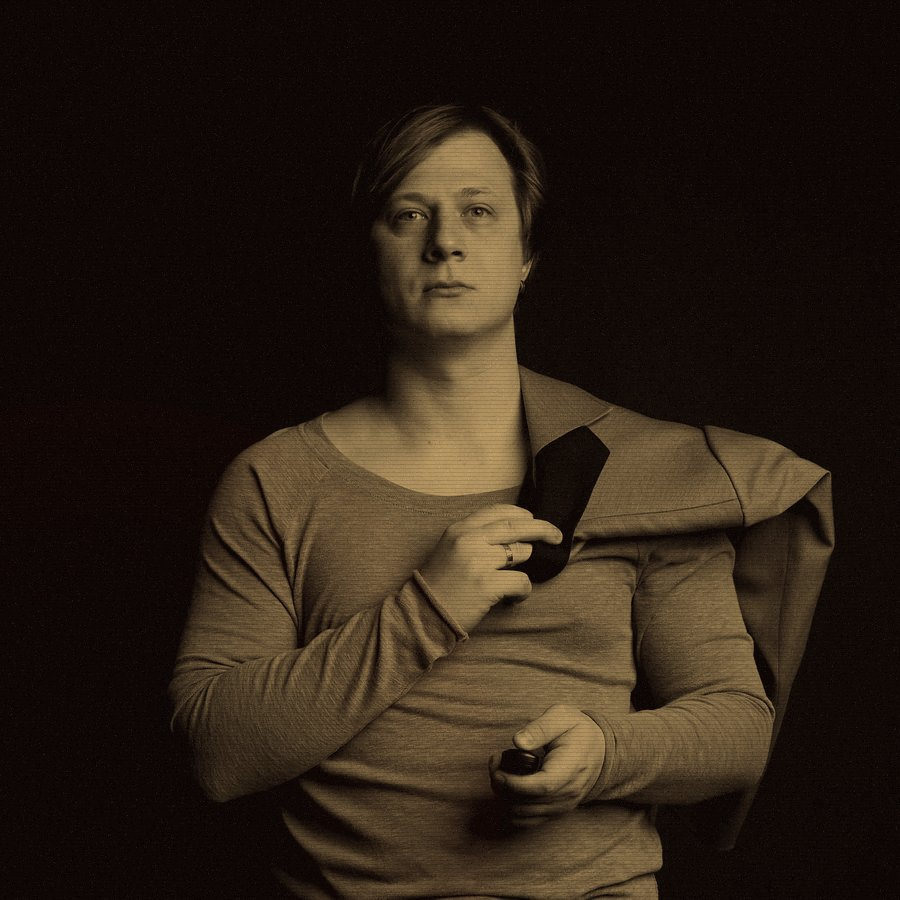
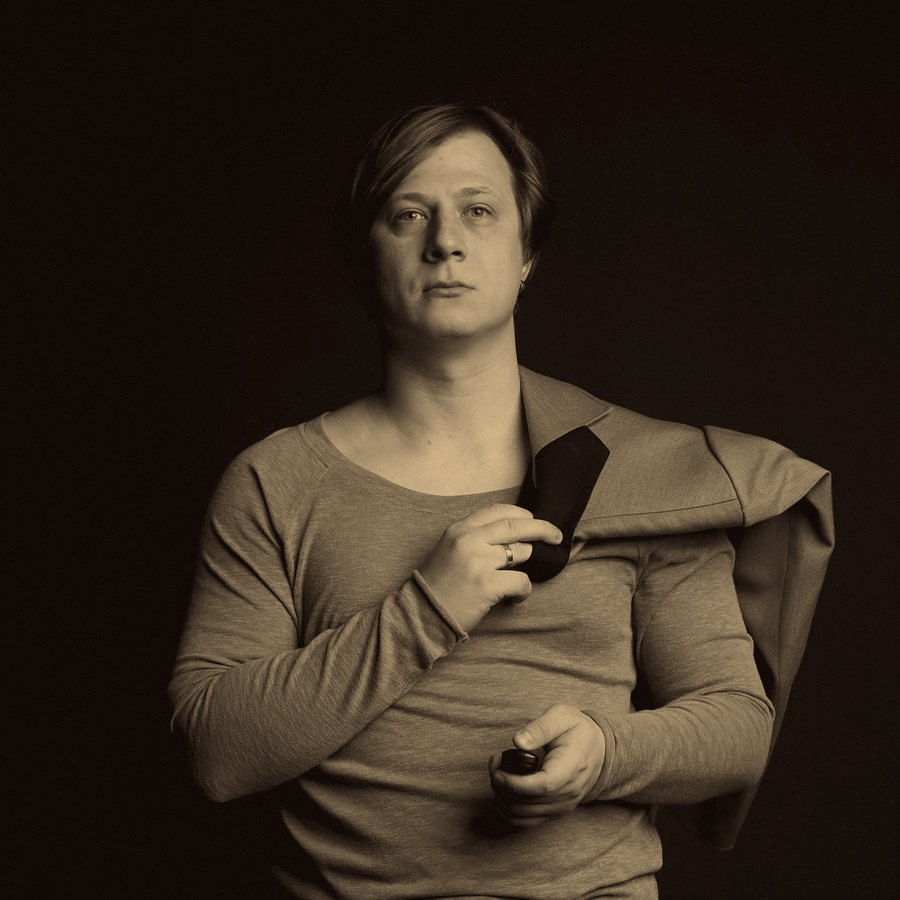
Rename version link, cross-link DMs badge, fix WH40k typography & portrait
- "the classical version" -> "classic view" on index nav/footer and
  the WH40k versions row
- "DMs open" hero badge is now an anchor linking to the #dms footer
  CTA section, with hover state
- WH40k portrait re-processed without the glow-blend and scanlines
  that caused visible distortion: clean bronze duotone, gentle edge
  vignette, light grain (generative re-edit needs GEMINI_API_KEY)
- WH40k typography overhaul: root font bumped to 18px / body 19px,
  all italics removed, UnifrakturMaguntia blackletter for h1, section
  rites, campaign names, and litany heading; illuminated-manuscript
  drop caps on the intro and campaign lore paragraphs

Changed region(s): [[0.2178, 0.1244, 0.8711, 1.0], [0.6533, 0.4667, 0.9333, 0.5911], [0.4044, 0.9022, 0.4356, 0.9333]]

diff --git a/wh40k.html b/wh40k.html
@@ -7,7 +7,7 @@
   <meta name="description" content="Sanctioned record of the Arch-Magos of Personalization, servant of the Omnissiah, bane of unsegmented offers.">
 
   <link rel="preconnect" href="https://fonts.googleapis.com">
-  <link href="https://fonts.googleapis.com/css2?family=Cinzel:wght@400;600;700&family=IM+Fell+English:ital@0;1&display=swap" rel="stylesheet">
+  <link href="https://fonts.googleapis.com/css2?family=Cinzel:wght@400;600;700&family=IM+Fell+English&family=UnifrakturMaguntia&display=swap" rel="stylesheet">
 
   <style>
     *, *::before, *::after { box-sizing: border-box; margin: 0; padding: 0; }
@@ -23,15 +23,28 @@
       --bone:    #e8dcc0;
     }
 
+    html { font-size: 18px; }
+
     body {
       background:
         radial-gradient(ellipse 80% 50% at 50% -10%, rgba(138,28,28,.25) 0%, transparent 60%),
         var(--void);
       color: var(--parch);
       font-family: 'IM Fell English', Georgia, serif;
-      font-size: 17px;
-      line-height: 1.6;
+      font-size: 19px;
+      line-height: 1.65;
       min-height: 100vh;
+    }
+
+    /* illuminated initial — medieval manuscript drop cap */
+    .illum::first-letter {
+      font-family: 'UnifrakturMaguntia', serif;
+      font-size: 3.1em;
+      line-height: .78;
+      float: left;
+      color: var(--gold);
+      padding: 4px 10px 0 0;
+      text-shadow: 0 0 18px rgba(201,162,39,.35);
     }
 
     ::selection { background: var(--crimson); color: var(--bone); }
@@ -159,17 +172,17 @@
     }
 
     .subject-id h1 {
-      font-family: 'Cinzel', serif;
-      font-weight: 700;
-      font-size: clamp(1.7rem, 5.5vw, 2.5rem);
-      line-height: 1.15;
+      font-family: 'UnifrakturMaguntia', 'Cinzel', serif;
+      font-weight: 400;
+      font-size: clamp(2rem, 6.5vw, 3rem);
+      line-height: 1.2;
       color: var(--bone);
-      letter-spacing: .02em;
+      letter-spacing: .01em;
       margin-bottom: 12px;
+      text-shadow: 0 0 24px rgba(201,162,39,.25);
     }
 
     .subject-id .titles {
-      font-style: italic;
       color: var(--parch);
       font-size: 1.02rem;
       line-height: 1.65;
@@ -228,14 +241,14 @@
 
     /* ── Section titles ── */
     h2.rite {
-      font-family: 'Cinzel', serif;
-      font-size: 1.05rem;
-      font-weight: 600;
-      letter-spacing: .18em;
-      text-transform: uppercase;
+      font-family: 'UnifrakturMaguntia', 'Cinzel', serif;
+      font-size: 1.7rem;
+      font-weight: 400;
+      letter-spacing: .02em;
       color: var(--gold);
       text-align: center;
       margin-bottom: 22px;
+      text-shadow: 0 0 18px rgba(201,162,39,.3);
     }
 
     /* ── Campaign records ── */
@@ -248,17 +261,18 @@
     }
 
     .campaign-head h3 {
-      font-family: 'Cinzel', serif;
-      font-size: 1.02rem;
-      font-weight: 600;
-      letter-spacing: .06em;
+      font-family: 'UnifrakturMaguntia', 'Cinzel', serif;
+      font-size: 1.45rem;
+      font-weight: 400;
+      letter-spacing: .02em;
       color: var(--bone);
+      line-height: 1.25;
     }
 
     .campaign-head .rank {
-      font-style: italic;
       color: var(--gold);
       font-size: .95rem;
+      margin-top: 2px;
     }
 
     .campaign-head .epoch {
@@ -271,7 +285,6 @@
     }
 
     .campaign > p.lore {
-      font-style: italic;
       color: var(--parch-dim);
       margin-bottom: 12px;
       font-size: .98rem;
@@ -323,10 +336,17 @@
     }
 
     .litany p {
-      font-style: italic;
       color: var(--parch);
       margin-bottom: 20px;
       font-size: .98rem;
+    }
+
+    .litany h3 {
+      font-family: 'UnifrakturMaguntia', 'Cinzel', serif;
+      font-size: 1.4rem;
+      letter-spacing: .03em;
+      text-transform: none;
+      font-weight: 400;
     }
 
     .litany a.astropath {
@@ -431,7 +451,7 @@
 
   <div class="versions">
     <a href="/">⟵ Return to realspace</a>
-    <a href="cv.html">The classical version</a>
+    <a href="cv.html">Classic view</a>
   </div>
 
   <div class="dossier">
@@ -460,7 +480,7 @@
 
     <div class="divider"><span class="glyph">☠ ⚙ ☠</span></div>
 
-    <p style="font-style:italic; text-align:center; max-width:580px; margin:0 auto 8px;">
+    <p class="illum" style="max-width:600px; margin:0 auto 8px;">
       For nine Terran years the subject has marched at the intersection of the Machine Cult, growth strategy, and commercial accountability — transmuting raw data into tithes of GMV, ARPPU, Reach, and Retention. Twenty million souls receive his personalized litanies each lunar cycle. He builds from nothing unto glory, parts seas of legal complexity, and scales victorious ordeals across entire sector populations.
     </p>
 
@@ -475,7 +495,7 @@
         <div class="rank">Magos Personalis — Master of the Forge's Indulgences</div>
         <div class="epoch">025.M3 — Present Day · Congregation: 20 million souls</div>
       </div>
-      <p class="lore">Dispatched to reform the Omni-Forge's rites under the CHANGE doctrine: casting down the crude segment-litanies of old and raising in their place offers chosen for each soul individually, as the Omnissiah intends.</p>
+      <p class="lore illum">Dispatched to reform the Omni-Forge's rites under the CHANGE doctrine: casting down the crude segment-litanies of old and raising in their place offers chosen for each soul individually, as the Omnissiah intends.</p>
       <ul class="deeds">
         <li><strong>A tenfold tithe</strong> was rendered unto the forge when the look-alike augur arrays singled out souls ripe for subscription: 2 million thrones from the unblessed control flock against 30 million from the chosen.</li>
         <li><strong>The congregation of Cashback Indulgences was doubled</strong> — from 4.7 to 10 million souls — when the 20 common litanies were expanded to 200, each soul receiving the indulgence the machine spirit deemed most pleasing.</li>
@@ -492,7 +512,7 @@
         <div class="rank">Lord-Lieutenant of Personalization — Bearer of the Unified Platform Standard</div>
         <div class="epoch">022.M3 — 025.M3 · Three and a half Terran years of unbroken campaign</div>
       </div>
-      <p class="lore">Charged with the speed of the crusade and the weight of its tithes, he carried the light of personalization to eleven worlds and more of the Sber sub-sector: the Megamarket Hive, Zvuk the Singing World, the picture-shrine OKKO, the cartographer-temple 2GIS, and others whose names are recorded in the sector annals.</p>
+      <p class="lore illum">Charged with the speed of the crusade and the weight of its tithes, he carried the light of personalization to eleven worlds and more of the Sber sub-sector: the Megamarket Hive, Zvuk the Singing World, the picture-shrine OKKO, the cartographer-temple 2GIS, and others whose names are recorded in the sector annals.</p>
       <ul class="deeds">
         <li><strong>The Megamarket Hive yielded +5% GMV</strong> from the recommendation-shrines raised in its homepage, cart, and product-reliquaries — whereupon the hive cast out its xenos SaaS mercenaries, their contracts burned after trial by combat (A/B).</li>
         <li><strong>The Power of Sound was awakened</strong> upon Zvuk: souls lingered in communion with the Singing World for 4.2 hours at a stretch, deaf to all distraction.</li>
@@ -510,7 +530,7 @@
         <div class="rank">Envoy-Procurator — Herald of the Watching Auspex</div>
         <div class="epoch">019.M3 — 021.M3 · The auspex that guards the transport-serfs from slumber</div>
       </div>
-      <p class="lore">Bore the auspex arrays that watch over the vigilance of convoy crews unto the great merchant houses, securing pilots, pacts, and patronage for the fledgling forge.</p>
+      <p class="lore illum">Bore the auspex arrays that watch over the vigilance of convoy crews unto the great merchant houses, securing pilots, pacts, and patronage for the fledgling forge.</p>
       <ul class="deeds">
         <li><strong>Five great houses entered pilot communion</strong>: Unilever, Norilsk Nickel, LENTA, SladkayaZhizn+, and Kastor Group of the hazardous cargoes; the houses Sinara and Renaissance pledged partnership.</li>
         <li><strong>He survived the Sber500 Gauntlet</strong> — from supplicant to Demo Day — and pitched before High Lord Gref himself and the assembled ecosystem lords, earning renown and open gates.</li>
@@ -527,7 +547,7 @@
         <div class="rank">Herald to Investors &amp; the Tech-Adept Brotherhood</div>
         <div class="epoch">017.M3 — 019.M3 · Before the Inquisition ruled on the decentralization question</div>
       </div>
-      <p class="lore">In his youth he spread the word of decentralized cogitation — serverless, masterless, and (the Inquisition notes with suspicion) headless — among investors and the scattered brotherhood of tech-adepts.</p>
+      <p class="lore illum">In his youth he spread the word of decentralized cogitation — serverless, masterless, and (the Inquisition notes with suspicion) headless — among investors and the scattered brotherhood of tech-adepts.</p>
       <ul class="deeds">
         <li><strong>The Great DApp Census</strong> drew three thousand eyes within a single day-cycle and was proclaimed by the town criers VentureBeat and Hackernoon to all corners of the segmentum.</li>
         <li><strong>Gatherings of the brotherhood</strong> were convened in the hives of Berlin, Minsk, and Moscow, swelling the ranks of the platform's faithful.</li>

diff --git a/index.html b/index.html
@@ -183,6 +183,13 @@
       border-color: rgba(52,211,153,.3);
       background: rgba(52,211,153,.08);
       color: #6ee7b7;
+      text-decoration: none;
+      transition: border-color .15s, background .15s;
+    }
+
+    a.badge--open:hover {
+      border-color: rgba(52,211,153,.55);
+      background: rgba(52,211,153,.14);
     }
 
     .badge .pulse {
@@ -825,7 +832,7 @@
   <div class="topnav-inner">
     <a class="brand" href="/">Artem Domozhakov</a>
     <div class="nav-links">
-      <a class="arrow-link" href="cv.html">the classical version <span class="arr">→</span></a>
+      <a class="arrow-link" href="cv.html">classic view <span class="arr">→</span></a>
       <a class="arrow-link" href="wh40k.html">Warhammer 40k <span class="arr">→</span></a>
     </div>
   </div>
@@ -837,7 +844,7 @@
     <div class="hero-text">
     <div class="hero-badges">
       <span class="badge"><span class="pulse"></span>Currently at Magnit OMNI</span>
-      <span class="badge badge--open">DMs open — projects &amp; advisory</span>
+      <a class="badge badge--open" href="#dms">DMs open — projects &amp; advisory ↓</a>
     </div>
     <h1>Artem Domozhakov</h1>
     <p class="hero-role">Product Leadership<span class="sep">|</span>Growth-hacking<span class="sep">|</span>Unit Economics</p>
@@ -1112,7 +1119,7 @@
   </div>
 
   <!-- ── Footer CTA ─────────────────────────────────────────── -->
-  <section class="cta">
+  <section class="cta" id="dms">
     <div class="section-label">How I can help</div>
     <h3>Hit DMs if you or your team wants to:</h3>
     <ul class="cta-list">
@@ -1143,7 +1150,7 @@
 <!-- ── Footer ─────────────────────────────────────────────── -->
 <footer class="footer">
   <span>© 2026 Artem Domozhakov</span>
-  <a class="arrow-link" href="cv.html">the classical version <span class="arr">→</span></a>
+  <a class="arrow-link" href="cv.html">classic view <span class="arr">→</span></a>
   <a class="arrow-link" href="wh40k.html">Warhammer 40k <span class="arr">→</span></a>
   <a href="https://t.me/orchilux" target="_blank" rel="noopener">Telegram channel</a>
 </footer>
